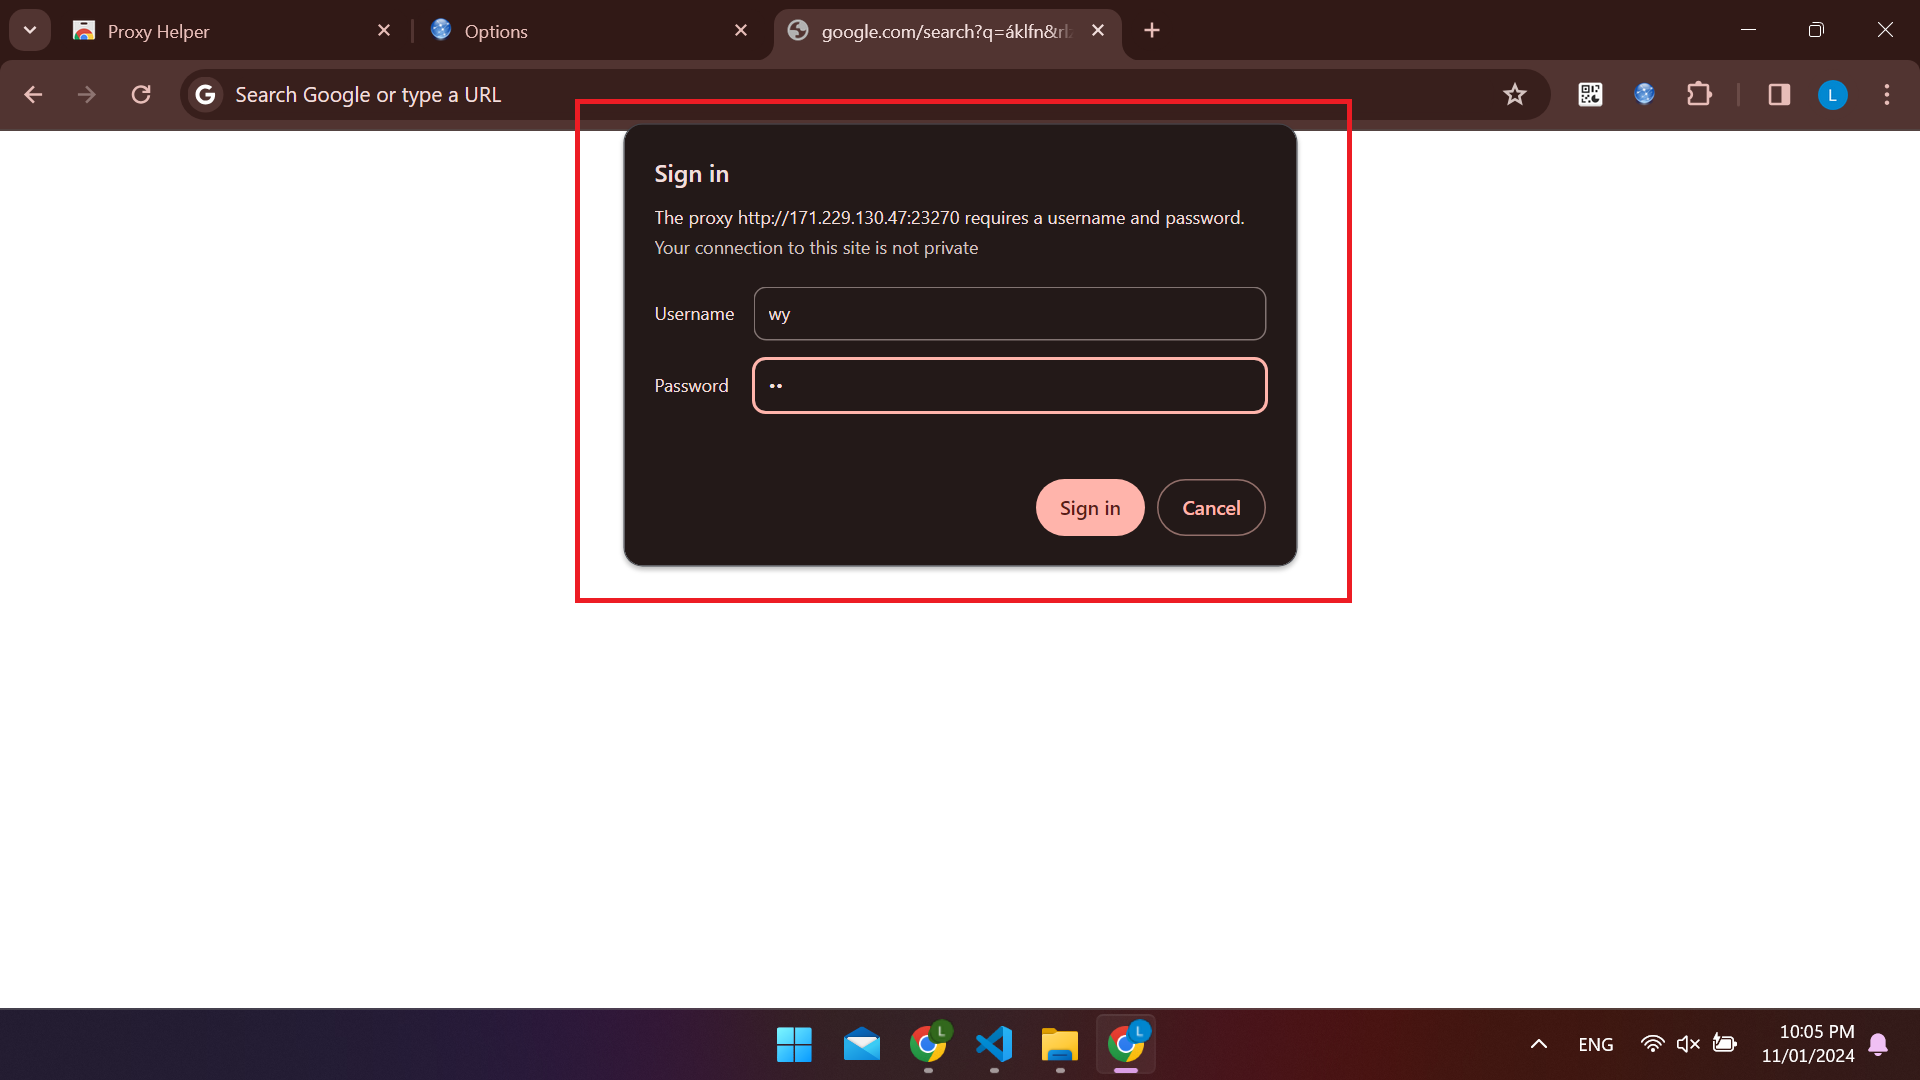
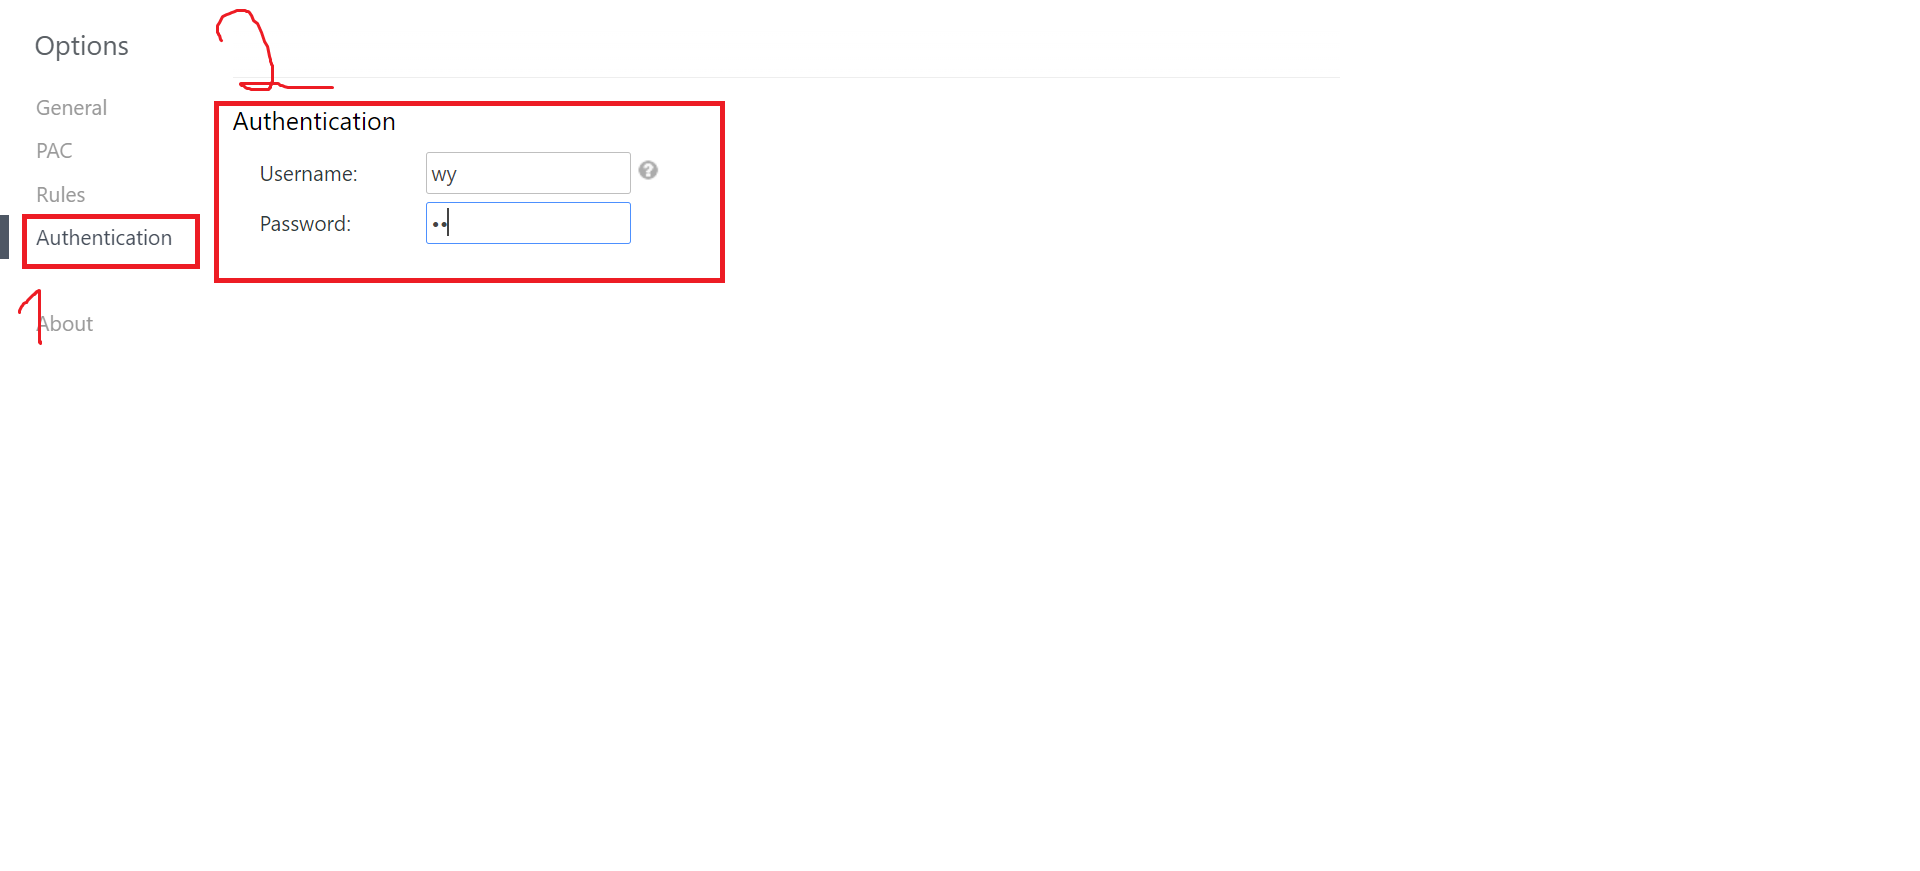
docs: update doc

diff --git a/README.md b/README.md
@@ -38,12 +38,10 @@ Ip ae nhận được sẽ có dạng như sau: `171.229.130.47:23270:wy:wy`
 
 ## Bước 3: Thiết lập proxy
 
-Bây giờ ae sẽ tại proxy helper về, sau khi tải thanh công nó sẽ tự động chuyển sang trang option cho ae:
+Bây giờ ae sẽ tại proxy helper về, sau khi tải thanh công nó sẽ tự động chuyển sang trang option cho ae: Ở bước 2 ae nhớ click vào chọn `singleProxy`.
+
 ![proxy](proxy.png)
-
-Ở bước 2 ae nhớ click vào chọn `singleProxy`.
-
-Sau khi hoàn thành thì ae mở tab mới, ae nhập gì đó vào thanh tìm kiếm rồi nhấn enter, sẽ có 1 form hiện ra, ae điền tài khoản và mật khẩu vào. Bước tiếp theo chỉ cần cài grass nữa là xong.
+Nhập tài khoản và mật khẩu vào đây:
 ![login](login.png)
 
 Ae muốn treo thêm nhiều proxy thì nhấn vào đây để add account, không cần login cũng được.
